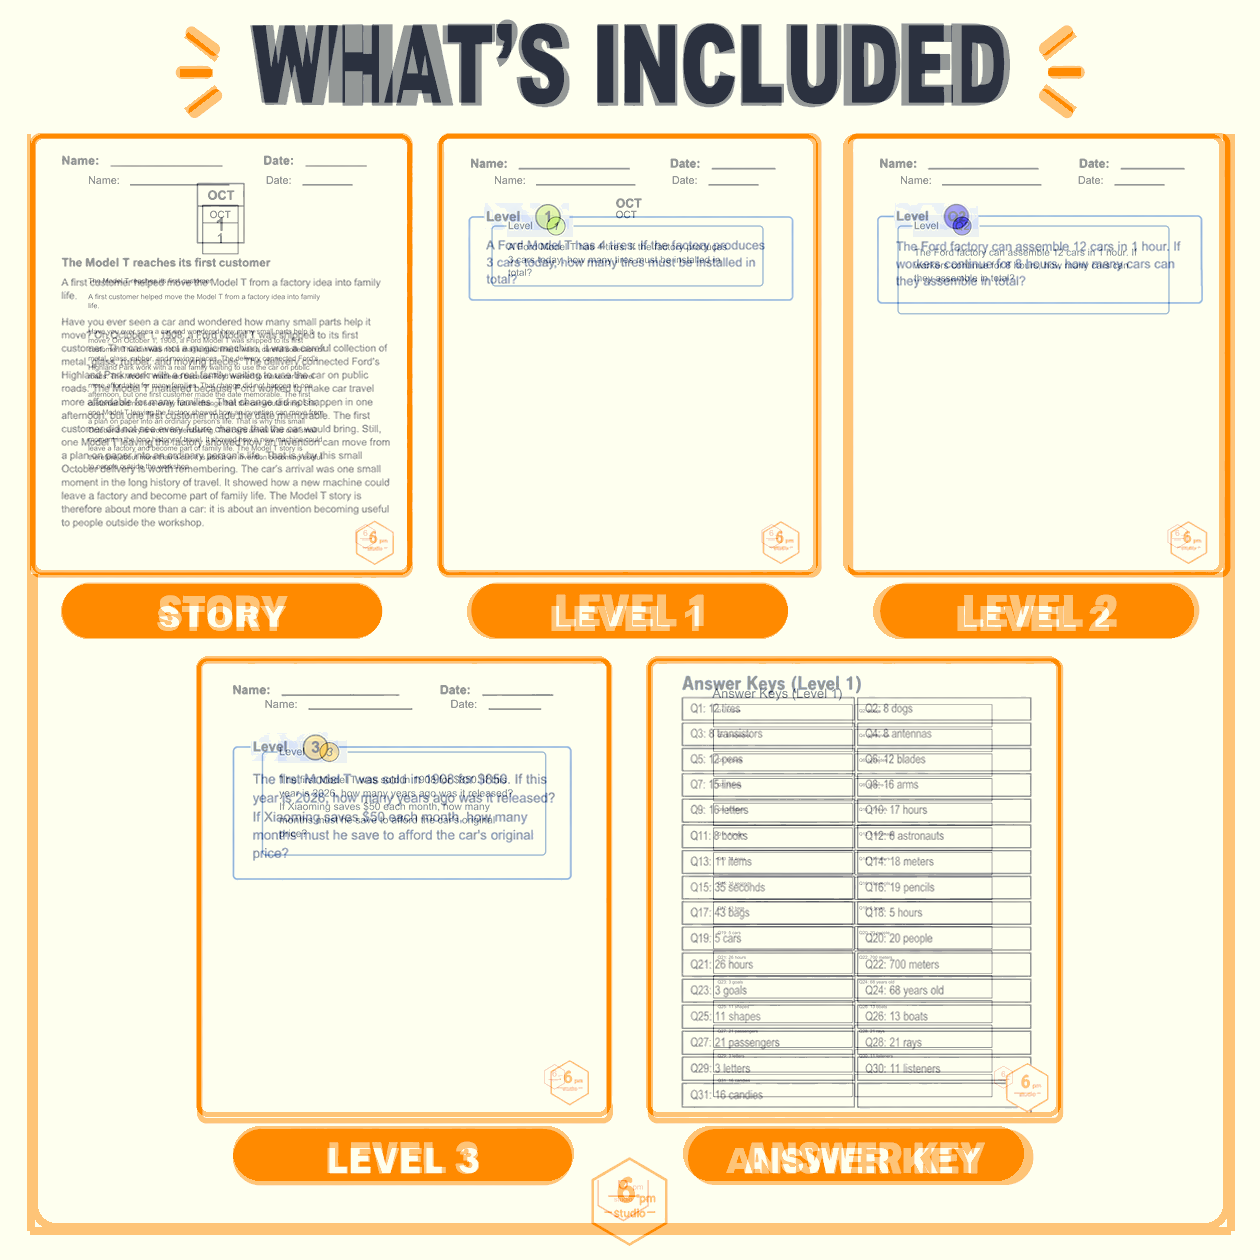
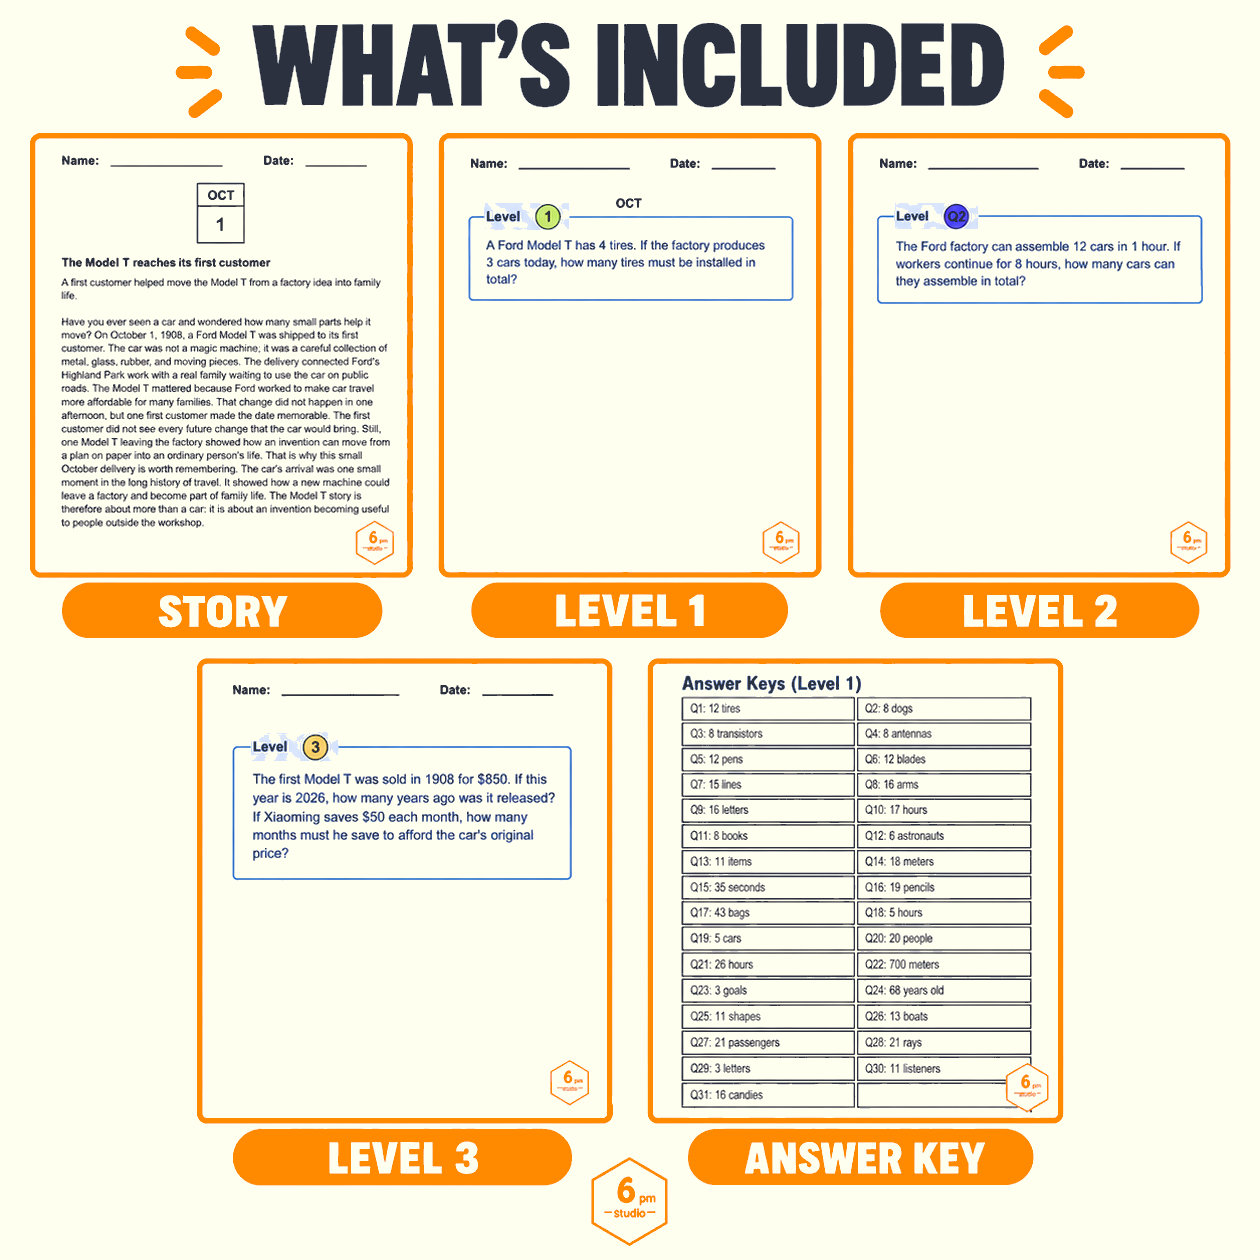
Resolve thumbnail 2 parity and PR base conflicts

diff --git a/scripts/generate_monthly_thumbnails.py b/scripts/generate_monthly_thumbnails.py
@@ -227,7 +227,13 @@ def compose_cover(month, out, source_page):
     canvas.convert("RGB").save(out, "PNG", optimize=True)
 
 
-def compose_whats_included(pages, out):
+def compose_whats_included(month, pages, out):
+    canonical = Path("references /thumbnail-assets/thumbnail-2-reference.png")
+    if month.lower() == "october" and canonical.exists():
+        # Preserve exact October pixel parity; future months use the same
+        # geometry below with month-specific real PDF pages substituted.
+        Image.open(canonical).convert("RGB").resize((SIZE, SIZE), Image.Resampling.LANCZOS).save(out, "PNG", optimize=True)
+        return
     canvas = base_canvas()
     draw = ImageDraw.Draw(canvas)
     # Thumbnail 2's canonical frame begins at the card row; its top area is
@@ -323,7 +329,7 @@ def main():
         daily = {key: render_page(page) for key, page in pages["daily_practice"]["source_pages"].items()}
         first = whats["story"]
         compose_cover(manifest["product"]["month"], args.output_dir / f"{prefix}-cover.png", first)
-        compose_whats_included(whats, args.output_dir / f"{prefix}-whats-included.png")
+        compose_whats_included(manifest["product"]["month"], whats, args.output_dir / f"{prefix}-whats-included.png")
         compose_different_math(different, args.output_dir / f"{prefix}-different-math.png")
         compose_daily_practice(daily, args.output_dir / f"{prefix}-daily-practice.png")
     names = ["cover", "whats-included", "different-math", "daily-practice"]
@@ -351,7 +357,7 @@ def main():
         "pdf_sha256": actual_pdf_sha256,
         "copyConcepts": {
             "cover": {"headline": "October", "productTitle": "MORNING WORK MATH", "supportingText": ["31 DAILY WORD PROBLEMS"], "levelsBlock": "3 LEVELS with orange side lines", "doodle": "orange line-art pumpkin", "doodlePrompt": "recognizable pumpkin silhouette with five ribbed lobes, curved stem, outlined leaf, and flattened base; orange outline only; no fill or shading"},
-            "whats_included": {"headline": "WHAT’S INCLUDED", "sourceLayout": "story, level 1, level 2 / level 3, answer key", "headlineEmphasis": "three orange rays on each side", "labelStyle": "orange pills narrower than cards", "footer": "centered logo without divider lines"},
+            "whats_included": {"headline": "WHAT’S INCLUDED", "sourceLayout": "story, level 1 / level 2 / level 3, answer key", "headlineEmphasis": "three orange rays on each side", "labelStyle": "orange pills narrower than cards", "footer": "centered logo without divider lines", "parityFixture": "references /thumbnail-assets/thumbnail-2-reference.png", "failureLoop": "rerun prompt/compositor optimization until fixed-region visual QA passes"},
             "different_math": {"headline": ["ONE STORY", "DIFFERENT MATH"], "sourceLayout": "level 1, level 2, level 3 in one row", "headlineSideLines": "one orange horizontal line on each side", "labelStyle": "large navy labels"},
             "daily_practice": {"headline": ["READY FOR", "DAILY PRACTICE"], "useCases": ["MORNING WORK", "BELL RINGERS", "HOMESCHOOL"], "headlineEmphasis": "three orange rays on each side", "useCaseSeparators": "vertical orange lines"},
         },
